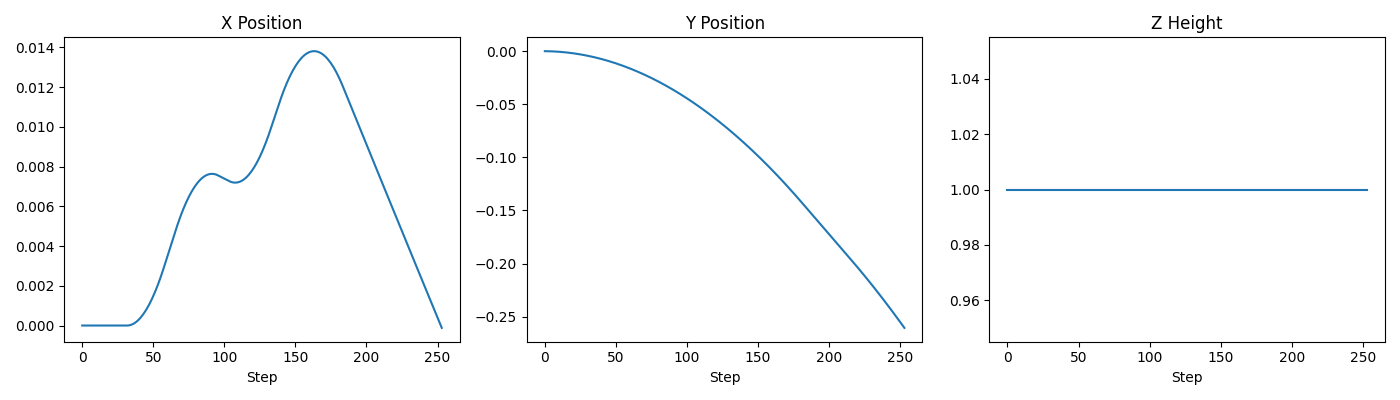
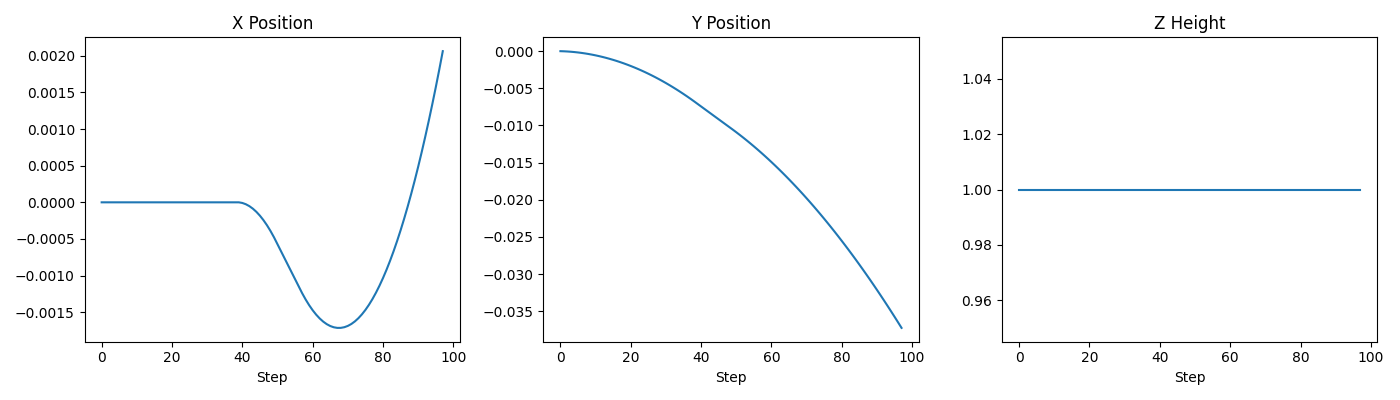
完成Day18:平滑處理與三項壓力測試(目標消失/突然入鏡/多目標切換)全數驗證通過

diff --git a/day17_final_integration.py b/day17_final_integration.py
@@ -4,12 +4,18 @@ import time
 import pybullet as p
 import pybullet_data
 import os
+from collections import deque
 os.environ["KMP_DUPLICATE_LIB_OK"] = "TRUE"
 # 用意:告訴系統允許多個OpenMP執行環境同時存在,強制繼續執行
 # 原理:這是設定一個環境變數,在程式啟動的最開始就要設定好,
 #      才能在後面import pybullet、ultralytics時生效,避免衝突直接讓程式崩潰
 #      這是pybullet跟pytorch(ultralytics底層用到)版本衝突的已知問題,
 #      官方建議的暫時解法就是設定這個環境變數放行
+
+diff_x_history = deque(maxlen=5)
+diff_y_history = deque(maxlen=5)
+# 用意:記錄最近5格畫面的偏移量,取平均來平滑雜訊
+# 原理:跟Day13處理過的邏輯相同,現在正式套用進即時整合版本
 
 
 def get_direction(diff_x, diff_y, threshold=30):
@@ -122,11 +128,16 @@ while step_count < MAX_STEPS:
         center_x, center_y = target["center"]
         diff_x = center_x - frame_center_x
         diff_y = center_y - frame_center_y
-        direction = get_direction(diff_x, diff_y)
+
+        diff_x_history.append(diff_x)
+        diff_y_history.append(diff_y)
+        smoothed_diff_x = sum(diff_x_history) / len(diff_x_history)
+        smoothed_diff_y = sum(diff_y_history) / len(diff_y_history)
+        # 用意:用平滑後的偏移量做方向判斷,減少單一格畫面雜訊造成的誤判
+
+        direction = get_direction(smoothed_diff_x, smoothed_diff_y)
     else:
         direction = ["STAY"]
-        # 用意:如果這一格畫面沒有偵測到任何目標(例如人暫時離開鏡頭),
-        #      預設維持STAY,不要因為沒有目標就讓球體亂飄或停止受力平衡
 
     fx, fy = direction_to_force(direction)
 
